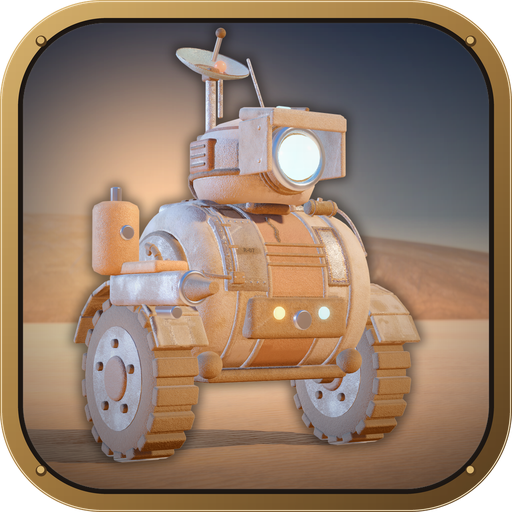
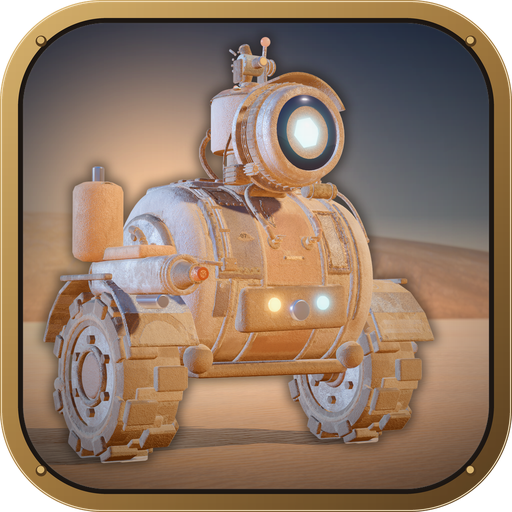
ScrappWars 0.8.0.0: release notes and website

diff --git a/docs/index.html b/docs/index.html
@@ -256,7 +256,7 @@ footer a { color: var(--sand); }
 			<h1>SCRAPPWARS</h1>
 			<p class="tagline">A small scrapper. A big desert. A war that never got its last message.</p>
 			<a class="button" href="https://github.com/RobertAgterhuis/Game-ScrappWars/releases/latest">Download for Windows</a>
-			<p class="meta">Version 0.7.0 for Windows 10 and 11 (64-bit), 296 MB. Free.</p>
+			<p class="meta">Version 0.8.0 for Windows 10 and 11 (64-bit), 323 MB. Free.</p>
 		</div>
 	</div>
 
@@ -275,7 +275,7 @@ footer a { color: var(--sand); }
 			</div>
 			<figure>
 				<img src="media/sd7-960.jpg" srcset="media/sd7-960.jpg 960w, media/sd7.jpg 1920w" sizes="(max-width: 860px) 100vw, 45vw"
-					width="1920" height="1080" alt="SD-7, a small scrapper patched together from salvaged plates and welds, on wheels with a camera visor, a dish and a solar panel, beside an escape pod">
+					width="1920" height="1080" alt="SD-7, a small scrapper patched together from dented salvaged plates and welds, with one oversized focusing camera lens, bare battery leads and a rusty dish, beside an escape pod">
 				<figcaption>SD-7, built from whatever it finds.</figcaption>
 			</figure>
 		</div>
@@ -364,7 +364,7 @@ footer a { color: var(--sand); }
 			<div>
 				<h2>Install</h2>
 				<ol class="steps">
-					<li>Download <code>ScrappWars-0.7.0.0-windows-x64.zip</code> from the <a href="https://github.com/RobertAgterhuis/Game-ScrappWars/releases/latest">newest release</a>.</li>
+					<li>Download <code>ScrappWars-0.8.0.0-windows-x64.zip</code> from the <a href="https://github.com/RobertAgterhuis/Game-ScrappWars/releases/latest">newest release</a>.</li>
 					<li>Unpack it anywhere.</li>
 					<li>Run <code>ScrappWarsUpdater.exe</code> in the unpacked folder. It checks every file, installs the game into <code>%LOCALAPPDATA%\Programs\ScrappWars</code>, adds it to the Start menu and starts it. No administrator rights needed.</li>
 				</ol>
@@ -415,13 +415,13 @@ footer a { color: var(--sand); }
 			<p class="lead">ScrappWars grows a little with every release. Here is where it stands, and where it goes from here.</p>
 			<ol class="track">
 				<li class="here">
-					<p class="when">Version 0.7</p>
+					<p class="when">Version 0.8</p>
 					<h3>Out now</h3>
 					<ul>
-						<li>A world that has been used: chipped paint over rust, burn streaks, sand in every seam, and canvas bleached and torn by the sun.</li>
-						<li>SD-7 rebuilt from mismatched freighter plating, and its parts look as worn as they are.</li>
-						<li>Machines with CRT screens and analog dials, Dunewell's mud houses with turning wind-catchers, and the Dawnbreaker's ribs and thruster bells.</li>
-						<li>A second, small sun, richer contrast and a start-up that takes seconds instead of half a minute.</li>
+						<li>Binary sunsets: a small, pale-blue second sun sets beside the big one, and SD-7 throws two shadows at dusk.</li>
+						<li>SD-7 looks out through one big focusing lens, tilts with the ground and leaves tracks, and its parts are worn machines you can watch at work.</li>
+						<li>A dense mud-dome Dunewell, a Canyon City carved into its walls, a walk-in home pod, truly dark caves and a Crater Sea that swirls into a funnel.</li>
+						<li>Robed mechanics, buried scrappers, clicking scavengers, dog-like hunters and a radio that crackles when WREN's signal is weak.</li>
 					</ul>
 				</li>
 				<li>

diff --git a/CHANGELOG.md b/CHANGELOG.md
@@ -2,6 +2,46 @@
 
 Every released version of ScrappWars, newest first. Downloads: [releases](https://github.com/RobertAgterhuis/Game-ScrappWars/releases).
 
+## 0.8.0 (0.8.0.0, 2026-10-30)
+
+The "Twin Sunset" update: every machine, wreck, creature and corner of Kessra has been rebuilt to look harder used, patched together and lived in, and the desert now ends every day with two suns going down together. Everything plays exactly as before.
+
+### Two suns
+
+- **Binary sunsets:** Kessra's small, pale-blue second sun now travels beside the big one, a little lower, and sets with it. At dawn and dusk SD-7 throws two overlapping shadows (on High and Ultra; on Ultra the big wrecks and rocks do too).
+- **Vashka** hangs larger in the sky in soft cream and orange bands, and glows faintly at night.
+- **Salt and heat:** salt pans crust the low ground of the open desert, the far horizon boils with heat shimmer and mirage, and a sandstorm tears the clouds apart into an ochre haze.
+
+### SD-7 and its parts
+
+- **A new face:** SD-7 looks out through one big round camera lens that focuses in little motor steps, hunts when you scan and goes still when it runs flat.
+- **A jury-rigged body:** dented plates, hand-laid welds, bare battery leads, a rusty dish on its back. When a part is close to breaking, SD-7 looks it: a cover plate hangs off its last bolt, the lens cracks, the worst part smokes and the leads spark. A repair cleans it up again.
+- **Parts that work:** every upgrade is a worn machine you can watch at work. Magnet pads spark, spider legs hiss, the thruster coughs dirty flame, the torch tip glows and spits, the grapple's claw flies out on a cable and winches back, the scanner's lenses click, blaster bolts fly lit across the sand and the shield ripples amber where it is hit.
+- **Feet on the ground:** SD-7 tilts with the slope, its wheels roll true and its feet plant, a broken leg limps visibly, and it leaves tracks in the sand that the wind fills in.
+- **Wear that stays put:** chips, rust and burns now stay on moving machines instead of sliding over them.
+
+### The people and machines of Kessra
+
+- **WREN's radio** squelches open and shut, crackles and distorts on a weak signal, and her panel is a green phosphor scope.
+- **Mote** is a dented little box with one amber eye on a sputtering lift field.
+- **Dunewell's mechanics** wear heavy robes, masks, goggles and greasy tool belts. The stranded scrappers lie buried to their shoulders in the sand.
+- **Scavengers** click their pincers and rear back hissing from your headlamp; **scrap hunters** are lean, dog-like hunters whose twin sensors follow you; the sand worm ploughs with a heavy, plated wedge of a snout.
+- **Rival fleets:** the Directorate's wrecks are hard-edged slate and navy with brass trim and bare bellies; the Sable fleet's are salvage, mismatched plates bolted on and canvas strapped down for roofs.
+
+### Places
+
+- **Home:** the escape pod's hatch is now a ramp, and you can drive inside its cramped cabin with hammocks, terminals and a workbench full of loose tools.
+- **Dunewell** has grown into a dense town of mud domes, every house with a turning wind-catcher, and the stalls hang with coarse burlap.
+- **Canyon City** climbs its deep orange walls: homes and rooms carved into the rock, clanking chain lifts and an iron foundry smoking on the summit.
+- **The Dawnbreaker** has a collapsed corridor in its torn flank, wiring dangling in the wind and sand streaming through; the **Patient Wren** lies broken in half with her machinery spilled into the dunes; the **Seedbearer** breathes thick white mist over Hollowmere's vine-choked mangroves.
+- **The Glass Plain's** obsidian spires arc lightning across the plain in a storm; tall salt pillars weave through ship skeletons in the **Salt Graveyard**; the **Crater Sea** swirls down into a sinking funnel; **the Scorch** is littered with fallen walkers and melted beam holes.
+- **The Underground Caves and the Long Night** are truly dark now: crystals, red alarm lights, flickering terminals and your headlamp are all you see by.
+- **Memory cores** are heavy, scratched metal cylinders with one button and a small speaker. The open desert has jagged arches, the bleached bones of old grazers and sand trailing off the dune crests.
+
+### Fixes
+
+- The shield's flash no longer stays lit after the shield drops, and the salt pans no longer whiten settlements and roads.
+
 ## 0.7.0 (0.7.0.0, 2026-10-29)
 
 The "Used Universe" update: Kessra and everything on it looks older, harder used and more lived in. Everything plays exactly as before.
